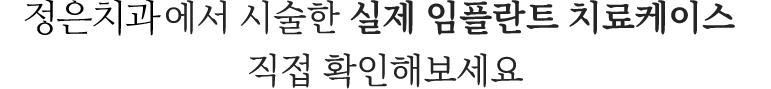
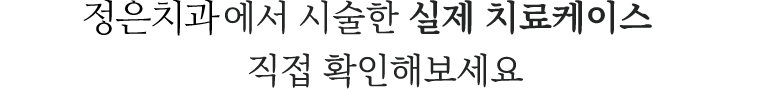
정은치과에 맞게 멘트 수정

Changed region(s): [[0.0311, 0.0, 0.965, 0.4045]]

diff --git a/index.html b/index.html
@@ -360,9 +360,9 @@
                         <div class="lf ani1">
                             <div class="sm-tit">
                                 <em class="chk02">1</em>
-                                <h2 class="chk01">전문화된 기술력으로 안전하게 다가갑니다<span class="ita">!</span><br><span class="big">오스템이 인증한 마스터 코스 지도의</span></h2>
+                                <h2 class="chk01">당신의 치아는 소중합니다<span class="ita">!</span><br><span class="big">치아를 뽑기 전에 한 번 더 생각합니다.</span></h2>
                             </div>
-                            <p>정은치과는 의사와의 1:1 맞춤진료로 정확한 진단과 <br>정직한 진료를 통해 치아건강을 관리합니다.<br>성남에서 오랜 기간 진료해온 경험을 바탕으로<br>임플란트, 브릿지, 틀니, 레진 등 환자분이 알맞는 진료를 <br>선택할 수 있도록 함께 상의하며 진료합니다.<br>치과치료는 자연치아의 건강함을 오래 유지하도록<br>치료하는 것이 목적입니다. <br>치아를 뽑기 전에 한번 더 생각하는 의사가 있는 곳, 정은치과 입니다.</p>
+                            <p>정은치과는 의사와의 1:1 맞춤진료로 정확한 진단과 <br>정직한 진료를 통해 치아건강을 관리합니다.<br>치과치료는 자연치아의 건강함을 오래 유지하도록<br>치료하는 것이 목적입니다. <br>치아를 뽑기 전에 한번 더 생각하는 의사가 있는 곳, 정은치과 입니다.</p>
                         </div>
                         <div class="divider"></div>
                         <div class="rt ani2">
